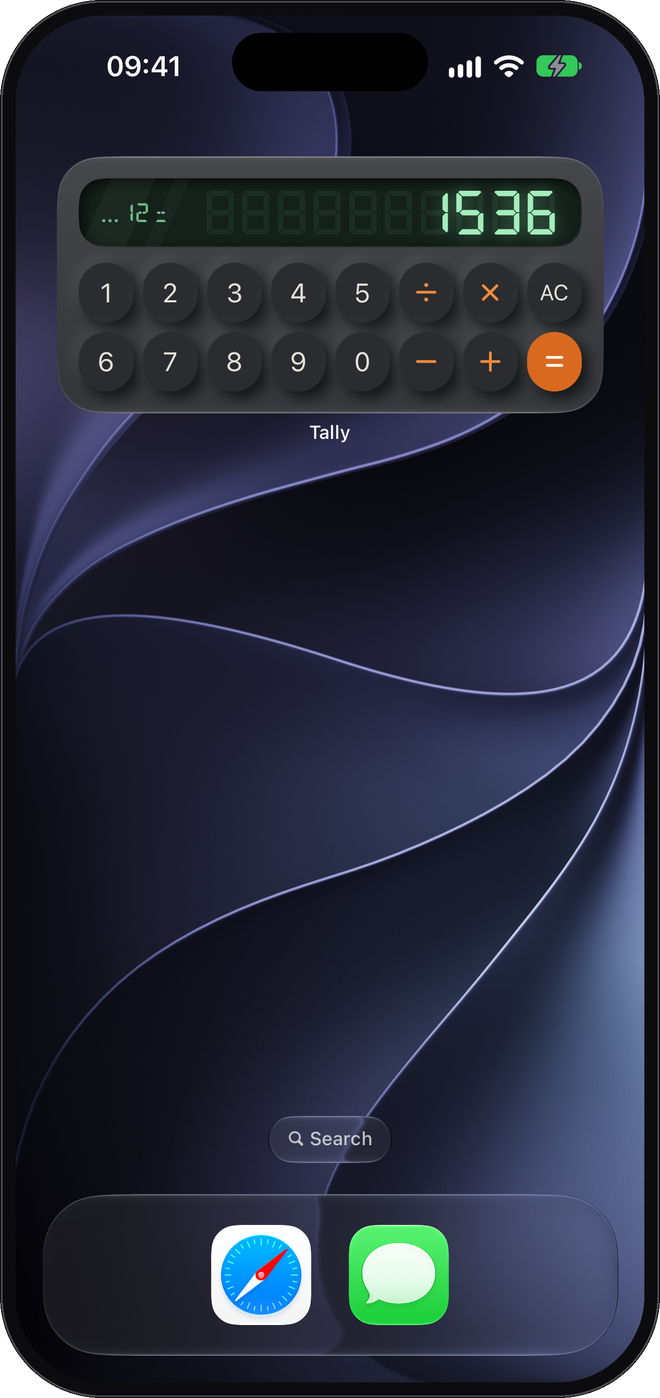
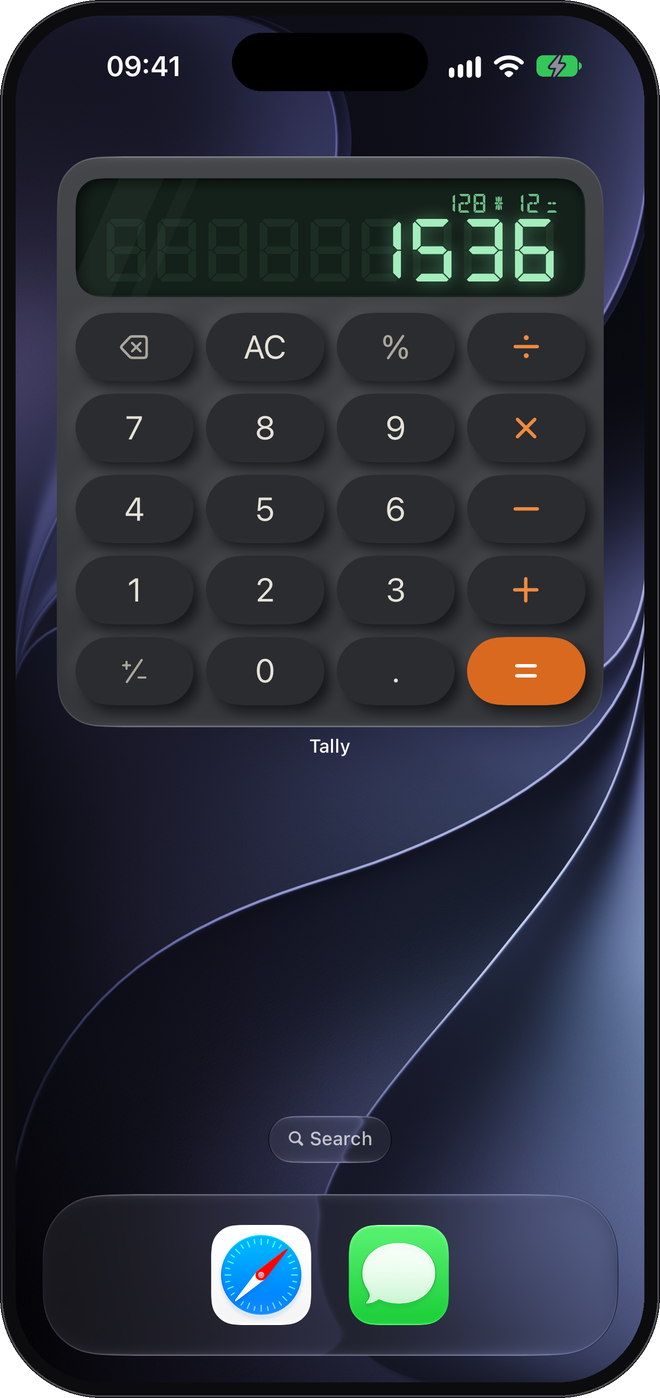
Show the large widget in the README
Replaces the medium widget screenshot with the large one, framed in an
iPhone like the other two.

Changed region(s): [[0.0606, 0.123, 0.9394, 0.5536]]

diff --git a/README.md b/README.md
@@ -14,7 +14,7 @@
 <p align="center">
   <img src="assets/app-light.png" alt="Tally in light mode showing 1536" width="220">
   <img src="assets/app-dark.png" alt="Tally in dark mode showing 1536" width="220">
-  <img src="assets/widget.png" alt="The Tally widget on the iPhone Home Screen" width="220">
+  <img src="assets/widget.png" alt="The large Tally widget on the iPhone Home Screen showing 1536" width="220">
 </p>
 
 ## Features
